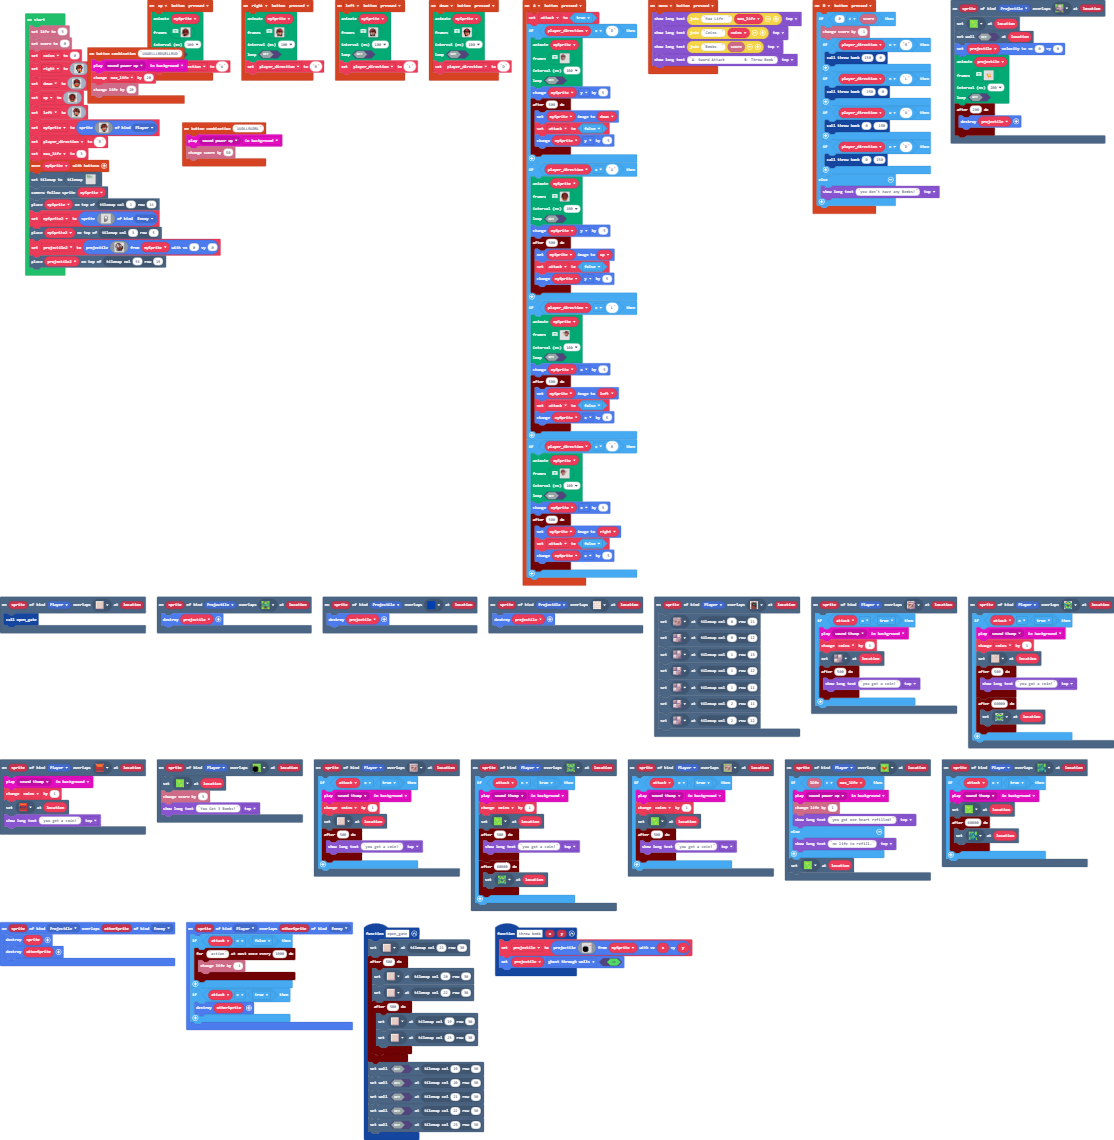
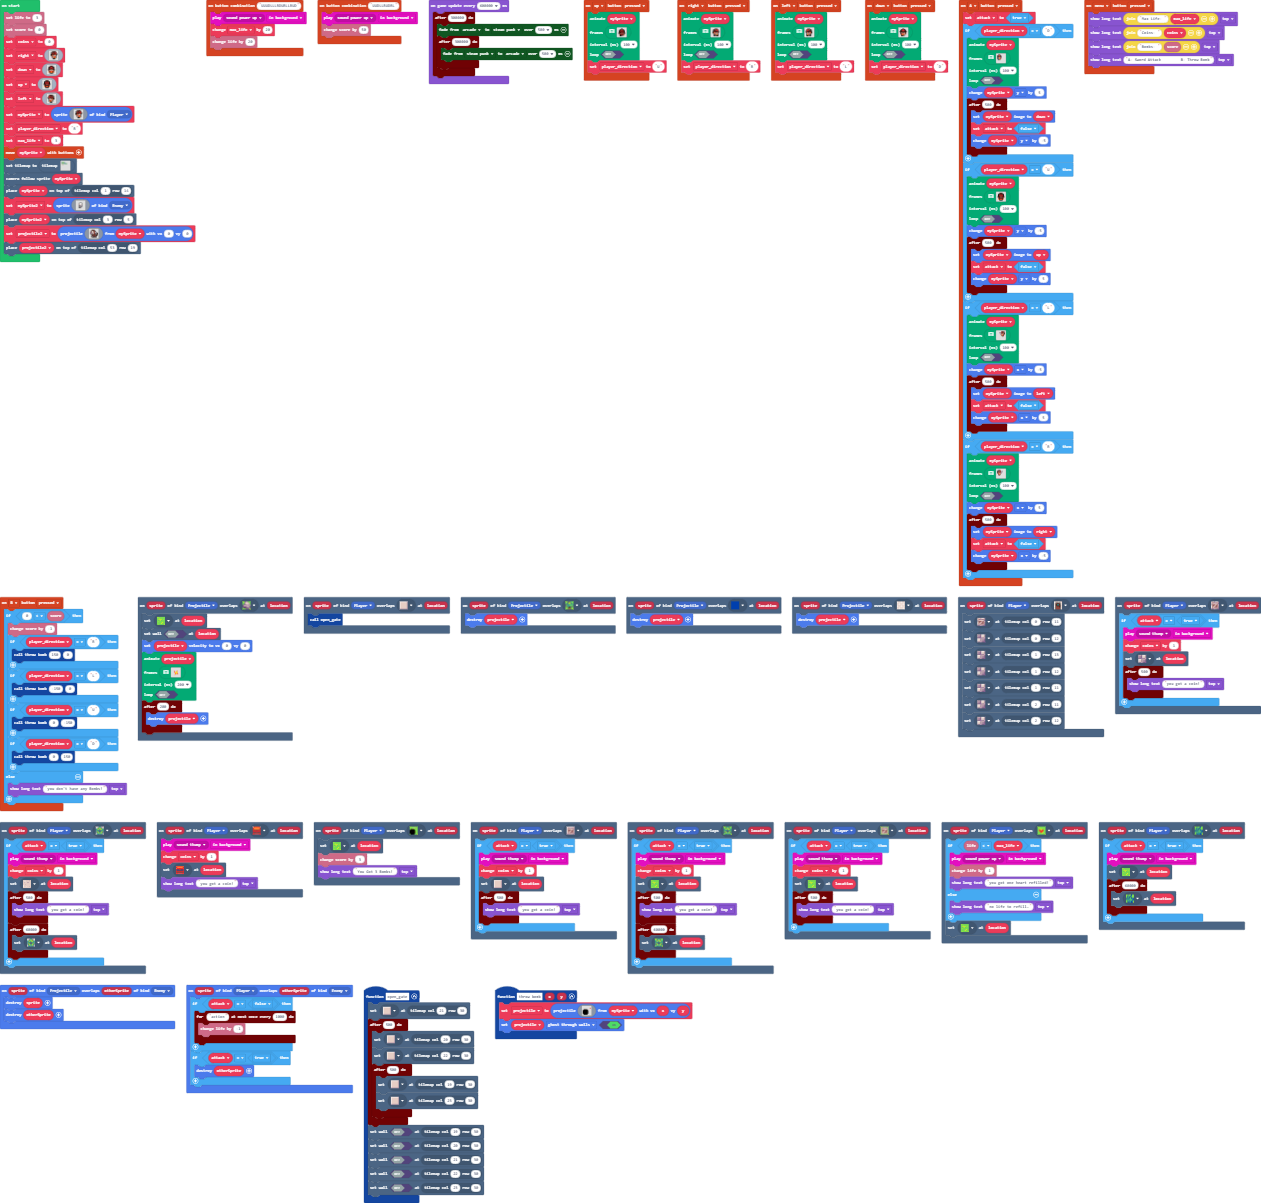
Update pxt.json, main.blocks, main.ts

diff --git a/main.ts b/main.ts
@@ -1098,3 +1098,11 @@ let projectile2 = sprites.createProjectileFromSprite(img`
     . . . . f f f f f f f f f . . . 
     `, mySprite, 0, 0)
 tiles.placeOnTile(projectile2, tiles.getTileLocation(53, 19))
+game.onUpdateInterval(600000, function () {
+    timer.after(300000, function () {
+        color.startFade(color.Arcade, color.SteamPunk, 500)
+        timer.after(300000, function () {
+            color.startFade(color.SteamPunk, color.Arcade, 500)
+        })
+    })
+})
